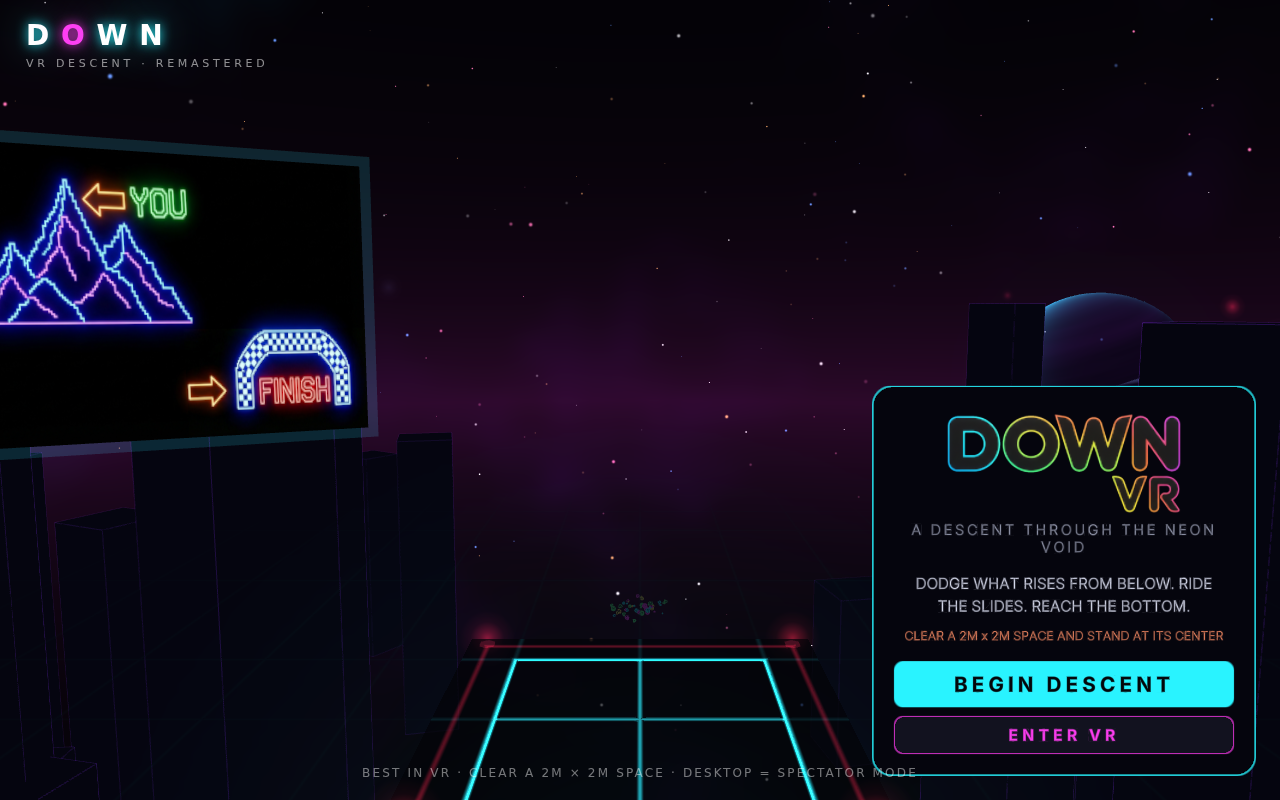
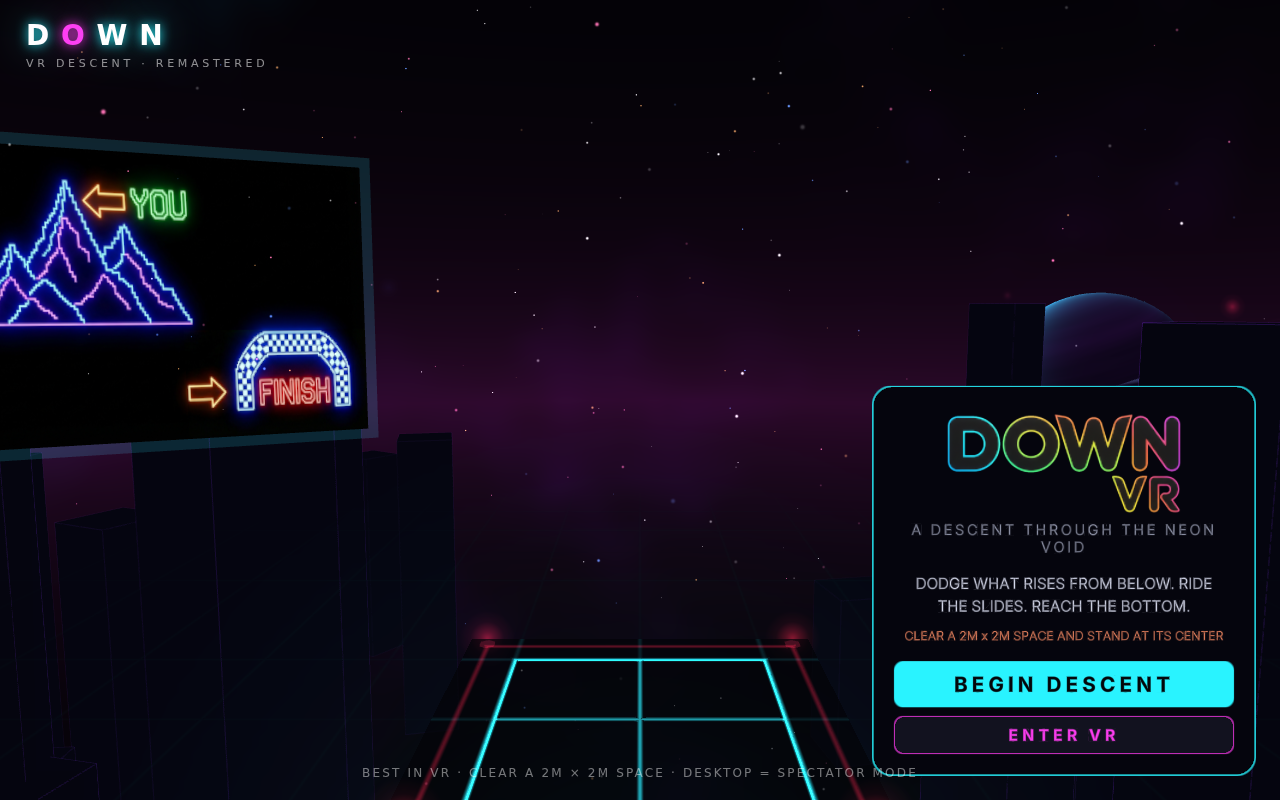
Steepen the drop, veil the bottom, add Run soundtrack + voice lines, deploy to Pages
- Slides steepened 20° -> 32° with tightened barrier spacing so the
  descent actually looks like a drop
- Finish zone hidden until the final slide begins, and fog restored to
  the original density — the bottom stays a mystery from up top
- Debris field pushed back from the landing pad
- New soundtrack "Run" on loop; voice lines reward each slide (nice ->
  perfect -> well done on the win); audio paths made subpath-safe
- GitHub Actions workflow deploys dist/ to Pages on push (main and
  claude/** branches), bundling legacy/ and vrxmas/ alongside

Claude-Session: https://claude.ai/code/session_0152Ld1AehrLiG8ey7gx6CCH

diff --git a/src/audio.ts b/src/audio.ts
@@ -1,31 +1,25 @@
 /**
- * Audio: the original DOWN soundtrack + stingers, played via HTMLAudio
- * (reliable inside WebXR sessions on Quest browser, no unlock quirks
- * beyond the first user gesture, which the BEGIN button provides).
+ * Audio, played via HTMLAudio (reliable inside WebXR sessions on Quest
+ * browser; the BEGIN button click provides the unlock gesture).
+ *
+ * Soundtrack: "Run" on loop. Voice lines reward each slide you survive.
+ * All paths are relative so the game works from a subpath (GitHub Pages).
  */
 const SFX = {
-  begin: '/audio/begin.ogg',
-  awesome: '/audio/awesome.ogg',
-  excellent: '/audio/excellent.ogg',
-  die: '/audio/die.ogg',
-  gameover: '/audio/gameover.ogg',
-  square: '/audio/square.ogg'
+  begin: './audio/begin.ogg',
+  die: './audio/die.ogg',
+  gameover: './audio/gameover.ogg',
+  square: './audio/square.ogg',
+  nice: './audio/nice.wav',
+  perfect: './audio/perfect.wav',
+  welldone: './audio/welldone.wav'
 } as const;
 
 export type SfxName = keyof typeof SFX;
 
-const TRACKS = [
-  '/audio/digital-paradisio.mp3',
-  '/audio/island-circuits.mp3',
-  '/audio/island-pixelio.mp3',
-  '/audio/island-pixels.mp3'
-];
-
 class AudioManager {
   private sfx = new Map<SfxName, HTMLAudioElement>();
-  private tracks: HTMLAudioElement[] = [];
-  private current = 0;
-  private musicOn = false;
+  private music: HTMLAudioElement | null = null;
 
   init(): void {
     (Object.keys(SFX) as SfxName[]).forEach((name) => {
@@ -33,13 +27,10 @@ class AudioManager {
       el.preload = 'auto';
       this.sfx.set(name, el);
     });
-    this.tracks = TRACKS.map((url) => {
-      const el = new Audio(url);
-      el.preload = 'none';
-      el.volume = 0.55;
-      el.addEventListener('ended', () => this.next());
-      return el;
-    });
+    this.music = new Audio('./audio/run.m4a');
+    this.music.preload = 'auto';
+    this.music.loop = true;
+    this.music.volume = 0.6;
   }
 
   play(name: SfxName, volume = 1): void {
@@ -51,24 +42,13 @@ class AudioManager {
   }
 
   startMusic(): void {
-    this.musicOn = true;
-    this.current = 0;
-    const track = this.tracks[0];
-    track.currentTime = 0;
-    void track.play().catch(() => {});
+    if (!this.music) return;
+    this.music.currentTime = 0;
+    void this.music.play().catch(() => {});
   }
 
   stopMusic(): void {
-    this.musicOn = false;
-    this.tracks.forEach((t) => t.pause());
-  }
-
-  private next(): void {
-    if (!this.musicOn) return;
-    this.current = (this.current + 1) % this.tracks.length;
-    const track = this.tracks[this.current];
-    track.currentTime = 0;
-    void track.play().catch(() => {});
+    this.music?.pause();
   }
 }
 

diff --git a/src/index.ts b/src/index.ts
@@ -62,7 +62,7 @@ World.create(document.getElementById('scene-container') as HTMLDivElement, {
 }).then((world) => {
   const { scene, player, camera } = world;
 
-  scene.fog = new FogExp2(0x050510, 0.0015);
+  scene.fog = new FogExp2(0x050510, 0.002); // the original's density — the deep world stays hidden until you're in it
   player.position.set(0, PHASE_HEIGHTS[0], 0);
 
   // --- World dressing -----------------------------------------------------
@@ -73,12 +73,16 @@ World.create(document.getElementById('scene-container') as HTMLDivElement, {
   platform.group.position.copy(player.position);
   scene.add(platform.group);
 
-  scene.add(createMegastructures());
+  const city = createMegastructures();
+  scene.add(city);
 
-  // Finish zone sits where the final slide lands.
+  // Finish zone sits where the final slide lands — but stays hidden until
+  // the final drop begins, so the bottom is a mystery from up top.
   const slideRun = (drop: number) => drop / Math.tan(SLIDE_ANGLE);
   const finishZ = -(slideRun(75) + slideRun(75) + slideRun(150));
-  scene.add(createFinishZone(new Vector3(0, WINNER_HEIGHT, finishZ)));
+  const finish = createFinishZone(new Vector3(0, WINNER_HEIGHT, finishZ));
+  finish.visible = false;
+  scene.add(finish);
 
   const signs = new SignBoard();
   player.add(signs.group);
@@ -99,7 +103,8 @@ World.create(document.getElementById('scene-container') as HTMLDivElement, {
     confetti,
     streaks,
     vignette,
-    megastructures: sky.group
+    megastructures: city,
+    finish
   } satisfies EnvHandles;
 
   // --- UI panels (compiled from ui/*.uikitml) -----------------------------

diff --git a/src/systems/game.ts b/src/systems/game.ts
@@ -199,6 +199,7 @@ export class GameSystem extends createSystem({
     emit('game-reset');
     this.env?.signs.reset();
     this.env?.confetti.stop();
+    if (this.env) this.env.finish.visible = false;
     this.player.position.set(0, PHASE_HEIGHTS[0], 0);
     this.setPanelVisible(this.panels?.end, false);
     this.setPanelVisible(this.panels?.hud, true);
@@ -230,20 +231,24 @@ export class GameSystem extends createSystem({
     const targetY = game.isFinal ? WINNER_HEIGHT : PHASE_HEIGHTS[game.round];
     slide.begin({ targetY, isFinal: game.isFinal });
 
+    // The bottom of the world only materializes once you commit to it.
+    if (game.isFinal && this.env) this.env.finish.visible = true;
+
     // Sign progression: heading to round 2 -> middle sign, round 3 -> bottom.
     this.env?.signs.show(Math.min(game.round, 2));
     this.showWarning(game.isFinal ? 'FINAL DROP' : 'SLIDE', 2);
   }
 
   private onSlideComplete(): void {
+    // Escalating praise: "nice" after the first slide, "perfect" after the second.
+    audio.play(game.round === 1 ? 'nice' : 'perfect');
     game.round += 1;
-    audio.play('excellent');
     this.enterGrid();
   }
 
   private onWin(): void {
     game.phase = 'WIN';
-    audio.play('awesome');
+    audio.play('welldone');
     this.env?.signs.show(3);
     this.player.head.getWorldPosition(this.headWorld);
     this.env?.confetti.start(this.headWorld.clone());

diff --git a/src/constants.ts b/src/constants.ts
@@ -13,7 +13,7 @@ const TURBO =
   new URLSearchParams(location.search).has('turbo');
 
 export const GRID_DURATION = TURBO ? 6 : 30; // seconds of dodging per round
-export const SLIDE_ANGLE = 20 * (Math.PI / 180);
+export const SLIDE_ANGLE = 32 * (Math.PI / 180); // steeper than the original 20° — it has to LOOK like a drop
 export const SLIDE_SPEED = 20; // m/s along the slide
 export const SLIDE_ACCEL_TIME = 1.2; // ease-in seconds for comfort
 
@@ -30,7 +30,7 @@ export const PROJECTILE_DESPAWN_Y = 3;
 /** Slide barriers: lane offsets across the 3-lane track. */
 export const LANE_X = [-0.4, 0, 0.4];
 export const BARRIER_SIZE = { w: 0.25, h: 2.4, d: 0.15 };
-export const BARRIER_SPACING = [25, 18, 18]; // per slide (1st, 2nd, final)
+export const BARRIER_SPACING = [20, 15, 15]; // per slide (1st, 2nd, final) — tighter to match the shorter, steeper runs
 
 export const HEAD_RADIUS = 0.12;
 

diff --git a/src/systems/environment.ts b/src/systems/environment.ts
@@ -15,6 +15,8 @@ export interface EnvHandles {
   streaks: StreakHandles;
   vignette: VignetteHandles;
   megastructures: Group;
+  /** Hidden until the final drop begins. */
+  finish: Group;
 }
 
 /**

diff --git a/README.md b/README.md
@@ -4,10 +4,15 @@ A roomscale VR descent game for the immersive web, rebuilt on Meta's
 [Immersive Web SDK](https://developers.meta.com/horizon/documentation/web/immersive-web-sdk/)
 (IWSDK + Three.js + WebXR).
 
+**Play it:** <https://yellkell.github.io/down/> — deployed from CI on every
+push (the original lives at [`/legacy/`](https://yellkell.github.io/down/legacy/),
+the Christmas sled at [`/vrxmas/`](https://yellkell.github.io/down/vrxmas/)).
+
 You start 300 meters up, standing on a floating neon platform in the void.
 Dodge the glowing shapes that surge up through the grid, survive the round,
-then ride a 20° slide of light down to the next platform. Three rounds, two
-slides, and one final 150-meter victory drop to the finish zone.
+then ride a steep 32° slide of light down to the next platform. Three
+rounds, two slides, and one final 150-meter victory drop to a finish zone
+that stays hidden in the fog until you commit to it.
 
 | Start | Slide | Finish |
 | --- | --- | --- |
@@ -49,7 +54,7 @@ src/
   index.ts          world bootstrap: assets, panels, systems
   constants.ts      all game tuning in one place
   state.ts          shared game state + tiny event bus
-  audio.ts          original soundtrack + stingers (HTMLAudio)
+  audio.ts          "Run" soundtrack, voice lines + stingers (HTMLAudio)
   systems/          ECS systems: game referee, spawner, slide, environment
   env/              the void: sky, platform, track, structures, extras
 ui/                 UIKitML spatial panels (start / HUD / warning / end)
@@ -63,8 +68,10 @@ vrxmas/             a separate little Christmas sled experience
 The original (preserved in [`legacy/`](legacy/)) was a single A-Frame page
 with hand-placed star spheres and copy-pasted slide blocks — a first VR
 project, and it shows in the best way. The remaster keeps its soul (same
-three-phase descent, same timings, same lane patterns, same music and
-signs) and rebuilds everything around it:
+three-phase descent, same round timings, same lane patterns, same sign
+artwork — with the slides steepened from 20° to 32° so the drop looks
+like one, and a new soundtrack, "Run", with voice-line rewards after
+every slide) and rebuilds everything around it:
 
 - **A-Frame → IWSDK**: TypeScript, ECS systems, UIKitML spatial UI panels,
   Vite build, desktop emulator for development.